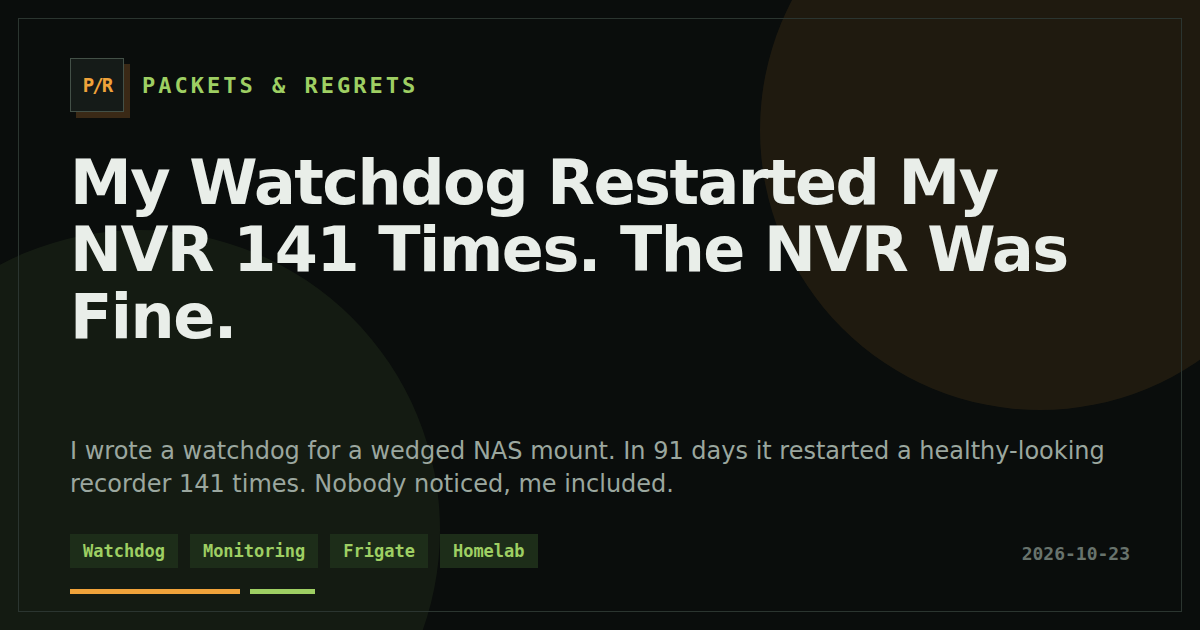
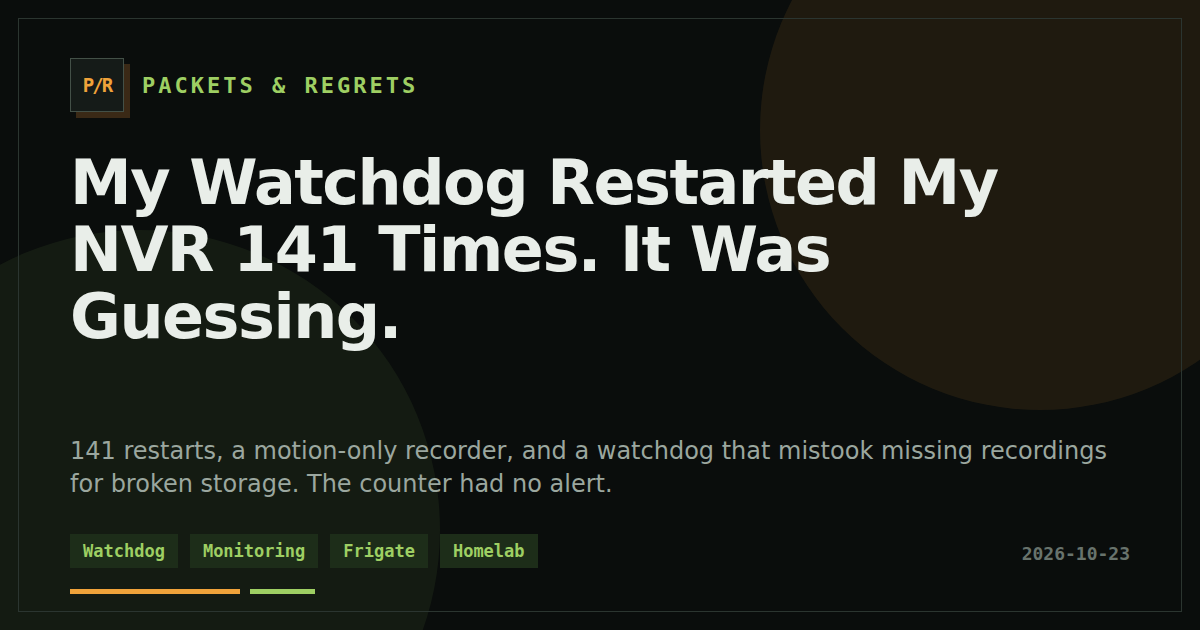
Publish: My Watchdog Restarted My NVR 141 Times (live-evidence corrections)

Changed region(s): [[0.0617, 0.6937, 0.925, 0.7841], [0.4933, 0.3317, 0.8942, 0.4524], [0.0617, 0.4524, 0.3392, 0.573]]

diff --git a/content/posts/my-watchdog-restarted-my-nvr-141-times.md b/content/posts/my-watchdog-restarted-my-nvr-141-times.md
@@ -1,15 +1,15 @@
 ---
-title: "My Watchdog Restarted My NVR 141 Times. The NVR Was Fine."
-description: "I wrote a watchdog for a wedged NAS mount. In 91 days it restarted a healthy-looking recorder 141 times. Nobody noticed, me included."
+title: "My Watchdog Restarted My NVR 141 Times. It Was Guessing."
+description: "141 restarts, a motion-only recorder, and a watchdog that mistook missing recordings for broken storage. The counter had no alert."
 date: 2026-10-23T15:55:00+02:00
-draft: true
+draft: false
 categories: ["Incident Reports"]
 tags: ["Watchdog", "Monitoring", "Frigate", "Homelab", "Automation"]
 ---
 
 Last week I wrote about [three things that died quietly while every dashboard stayed green](/posts/nothing-was-red-and-three-things-were-dead/). Monitoring that fails to notice a death. Fine. Classic.
 
-This week's is the opposite and, honestly, worse: a thing that **killed a healthy service on a schedule**, for three months, because I taught it what "broken" looks like and I taught it wrong. And it had a counter. The counter went up 141 times. I have a Grafana panel for that counter. I can't swear I ever opened it.
+This week's is the opposite and, honestly, worse: a thing that **kept restarting a recorder without establishing that storage was broken**, for three months, because I taught it what "broken" looks like and I taught it wrong. And it had a counter. The counter went up 141 times. I have a Grafana panel definition for that counter. I can't swear I ever looked at the thing.
 
 ## The setup: a good idea with a loaded gun
 
@@ -28,11 +28,11 @@ Here's the part I got wrong in one sentence: **"no new segment in 180 seconds" d
 
 ## Regret 1: I forgot my own retention policy
 
-My Frigate config uses motion-only retention. My own wiki says it: `continuous: 0`, `motion: 14` days. It only keeps segments when something moves. A camera pointed at an empty room for ten minutes legitimately commits **nothing**. No segments, no database rows, "stale" by the watchdog's definition, and perfectly healthy.
+My Frigate config uses motion-only retention. I checked the running configuration before publishing: `continuous: 0`, `motion: 14` days, globally and for both cameras. It keeps motion segments rather than a continuous archive. A quiet camera for ten minutes can legitimately commit **nothing**. No retained segments, no new recording rows, "stale" by the watchdog's definition, without that establishing a storage failure.
 
-I wrote the watchdog and the retention policy. In the same month. Same brain. The two never met.
+I wrote the watchdog. I also chose the retention policy. Same brain. The two never met.
 
-So the watchdog did what I told it to: a quiet camera went stale, three checks later it declared a failure, the storage sentinel read fine (because the storage *was* fine), and it restarted the container. Then, as far as I can tell, the fresh container sat there recording nothing until something moved, the check passed, and everybody was happy. Repeat tomorrow. (Inference: I did not trace a single cycle end to end.)
+So the failure mode I built in was this: a quiet camera could go stale, three failed checks could trigger recovery, and a passing storage-sentinel read could allow a restart without proving writes were broken. Then, as far as I can tell, the fresh container could sit there retaining nothing until something moved and the check passed. Repeat tomorrow. That's a mechanism supported by the code and retention settings, not an end-to-end trace of any particular restart.
 
 ## The numbers, from the journal on the host
 
@@ -40,7 +40,7 @@ I'm not guessing here. I pulled these from the watchdog's journal and the textfi
 
 - **141** restarts. The Prometheus counter says 141, and counting `RESTARTED` lines in the journal also says 141. I like it when two things agree.
 - First restart July 19, last one October 18 at about 10:17 local time. That's 91 days, roughly 1.5 a day.
-- **6,681** failed-check lines in the journal over the same stretch. The restarts are just the ones that survived three strikes.
+- **6,679** Frigate failed-check lines in the retained journal: **6,676 before the change, three after**. These are failed checks, not confirmed storage failures; they include more than stale-recording results.
 - There's a gap with no restarts from mid-August to the end of August. I don't know why. I have no evidence for any theory, so I'm not offering one.
 - The restarts cluster at two times of day. I can see the clustering. I haven't proven what's behind it, and I'm not going to make up a story because it'd read well.
 
@@ -48,13 +48,13 @@ The container's own restart counter says 0, by the way. That's because `docker r
 
 ## Regret 2: the counter had no one to tell
 
-Now the part that actually stings. I did build observability. The watchdog exports `nas_recovery_watchdog_restarts_total`. There's a Grafana panel for it on the backups dashboard. There's even a Prometheus alert for the watchdog...
+Now the part that actually stings. I did build observability. The watchdog exports `nas_recovery_watchdog_restarts_total`. There's a panel for it in my backups-dashboard configuration. So I had a counter and some Grafana JSON. Apparently I thought that counted as watching. There's even a Prometheus alert for the watchdog...
 
-...and that alert is `nas_recovery_watchdog_check_ok == 0 for 10m`. It tells me when the check is *failing*. It does not tell me when the watchdog is *acting*. As far as I can tell from reading the script, a restart is followed by a verify step and the check goes green, so the alert resets before 10 minutes are up and never fires. I grepped the Prometheus rules while writing this: nothing anywhere alerts on the restart counter going up.
+...and that alert is `nas_recovery_watchdog_check_ok == 0 for 10m`. It tells me when the check is *failing*. It does not tell me when the watchdog is *acting*. The script runs a verification step after a restart; if that passes, it can reset the failure condition before those ten minutes are up. That's the failure mode inferred from the code, not proof of the alert history for each incident. I queried the running Prometheus rules before publishing: the watchdog has that failure alert, but no rule references its restart counter.
 
 I built a smoke detector that can't tell the difference between a fire and the fireman showing up.
 
-A restart counter that increments 1.5 times a day is not a recovery metric. It's the most obvious "this thing is lying to you" signal I own, and I put it on a panel I never open. That's not monitoring. That's a decorative tile.
+A restart counter that increments 1.5 times a day is not a recovery metric. It's the most obvious "this thing is lying to you" signal I own, and I put it in a dashboard definition without establishing that it was telling me anything useful. That's not monitoring. That's a decorative tile.
 
 ## What I did about it
 
@@ -63,7 +63,7 @@ Commit `ff039e5`, October 18. One new config option, `stale_mode`:
 - `any` (the old behaviour): any single camera stale = failure.
 - `all`: failure only if **every** watched camera is stale at once.
 
-The reasoning is the thing I should have written in July. A wedged NAS share stops *all* cameras simultaneously. A quiet camera is one camera. If a single camera's recorder process genuinely breaks, Frigate has its own internal watchdog for that, and I don't need a second, dumber one doing a worse job on top.
+The reasoning is the thing I should have written in July. A share-wide storage failure is expected to affect all cameras; one quiet camera needn't mean shared storage is broken. That's still an assumption, not a diagnosis: partial failures and two quiet cameras are both possible. Frigate also has its own recording watchdog; piling another trigger on top needs a better reason than one old database timestamp.
 
 A quiet camera is now logged as "recordings current on at least one camera; quiet (no motion kept)" and moves on with its life.
 
@@ -73,7 +73,9 @@ Since the fix: **zero restarts** in five days, and the Frigate container's start
 
 But look at those three lines, because they're the honest part. They're two episodes where **both** cameras were stale at once. The first stopped at strike 1. The second, a day and a half later, reached strike 2 of 3 before recovering. `all` mode would have restarted on a third strike. It didn't, but it got two thirds of the way there on a night when I can't show anything was wrong.
 
-And I looked back at the journal line right before each restart (I could pair up 139 of the 141). In **100** of them only one camera was stale. In **39**, both were. The `all` fix handles the 100. It does *not* handle the 39. When I wrote "~141 false restarts" in the commit message I was rounding up my confidence. I can't prove the 39 were false. I can't prove they weren't either. I suspect most were two quiet cameras at the same quiet moment, but that's inference and I'm labelling it as inference.
+Before publishing, I paired each retained restart with the most recent distinct failed-check result. **87** followed a single stale camera. **39** followed both cameras being stale. The other **15** followed a connection refusal from Frigate's stats API—not a stale-recording result at all. That tells me the API wasn't reachable at that check. It doesn't hand me a signed confession from the NAS.
+
+`all` mode removes the single-stale-camera trigger behind those 87 cases. It doesn't establish what caused the 39 both-stale cases, and it doesn't eliminate API failures. When I wrote "~141 false restarts" in the commit message I was rounding up my confidence. I can't prove they were all false. I suspect some both-stale cases were two quiet cameras at the same quiet moment, but that's inference and I'm labelling it as inference.
 
 So the real state is: I turned a restart-every-16-hours problem into a rarer one. That's progress. It's not a fix. A proper fix is a check that tests the thing I care about (can I write to the share?) instead of using "did a camera see motion" as a proxy for it.
 
@@ -82,7 +84,7 @@ So the real state is: I turned a restart-every-16-hours problem into a rarer one
 1. **A proxy metric is a lie with good manners.** "No new segments" stood in for "storage is broken." They correlate until your config changes what a segment *is*. Test the real thing: write and read a file on the share.
 2. **Every automated action needs a counter, and the counter needs an alert.** Not on the *failure*. On the *action*. "Restarted more than twice in 24 hours" is an alert worth waking up for, because healthy systems don't need that many interventions.
 3. **Write down what your two systems assume about each other.** The watchdog assumed continuous recording. The recorder assumed nobody was checking. Each was reasonable in isolation, which is exactly how you ship a 91-day-long bug.
-4. **A rate-limited restart is still a restart.** My cooldown stopped storms. It didn't stop me from kicking a healthy service every sixteen hours or so, forever, politely.
+4. **A rate-limited restart is still a restart.** My cooldown stopped storms. It didn't stop me from kicking the service every sixteen hours or so without establishing a storage failure, forever, politely.
 5. **Confirm the fix by looking at the near-misses, not just the zeroes.** Zero restarts is easy to claim. "Counter hit 2 of 3 on a quiet night" is the number that tells you how close you still are.
 
 ## What I still don't know
@@ -92,7 +94,7 @@ So the real state is: I turned a restart-every-16-hours problem into a rarer one
 - Whether the mid-August gap means anything.
 - Whether the watchdog should exist at all. The honest answer might be a real storage health check and no restart logic, at which point I've spent three months and 141 restarts to learn I wrote a worse version of something simple. Ask me in a month.
 
-I wrote a thing to protect my recordings from a failure, and the failure it caused was, at minimum, a pile of needless restarts (I never measured the recording gaps). I can't point to a single real NAS wedge in that stretch. What I can point to is a script I wrote, running once a minute, that kept restarting my NVR.
+I wrote a thing to protect my recordings from a failure, and it produced a pile of restarts whose storage-failure justification I can't establish. I never measured the recording gaps. I can't point to a single confirmed NAS wedge in that stretch. What I can point to is a script I wrote, running once a minute, that kept restarting my NVR.
 
 And it had a dashboard. It was great.
 

diff --git a/README.md b/README.md
@@ -19,6 +19,7 @@ Public URL: <https://blog.zezelj.org>
 - [From 12,669 Findings to a To-Do List: Security Tooling for a Home Lab](https://blog.zezelj.org/posts/one-compose-command-seven-security-tools/)
 - [My Coding Agent Has a Shell and My SSH Keys. So I Built It a Leash.](https://blog.zezelj.org/posts/my-coding-agent-has-a-shell-and-my-ssh-keys/)
 - [Nothing Was Red, and Three Things Were Dead](https://blog.zezelj.org/posts/nothing-was-red-and-three-things-were-dead/)
+- [My Watchdog Restarted My NVR 141 Times. It Was Guessing.](https://blog.zezelj.org/posts/my-watchdog-restarted-my-nvr-141-times/) — motion-only retention, unproven recovery actions, and an intervention counter without an alert
 
 ## Local development
 
